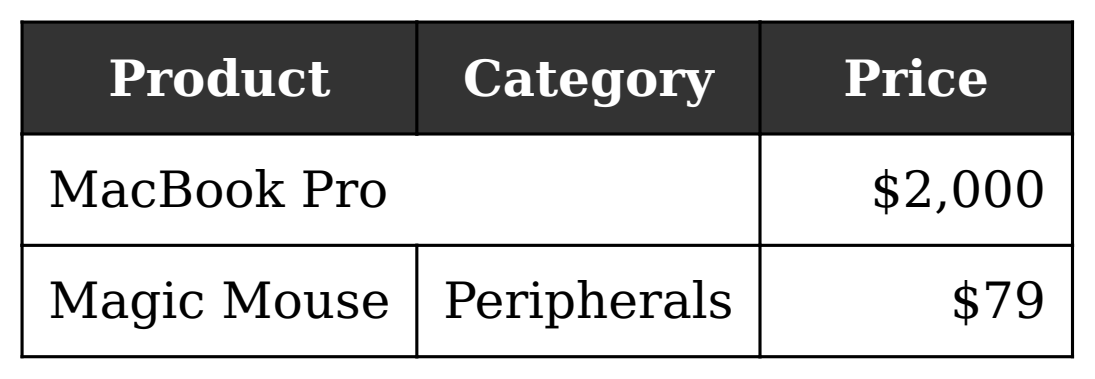
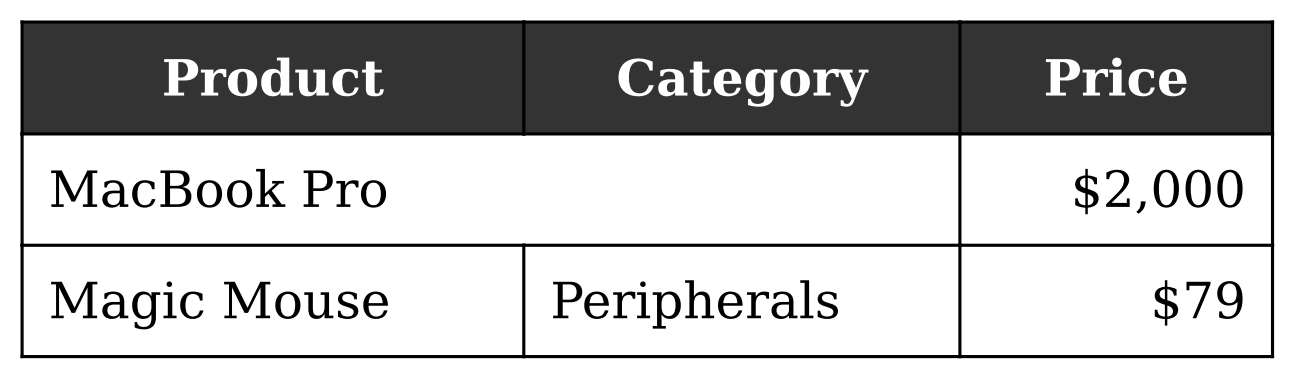
docs: update READMEs with latest API changes
- Updated cell.span() to cell.set_span()
- Added Row.set_height() example to the Layout & Sizing section

diff --git a/README.zh-TW.md b/README.zh-TW.md
@@ -60,6 +60,7 @@ from table_renderer import Table
 # 1. Initialize a 3x3 table
 table = Table(3, 3)
 table.set_border(width=1, color="black", style="solid")
+table.set_width(400)
 
 # 2. Set header style (Row 0)
 header = table.get_row(0)
@@ -71,7 +72,7 @@ table.cell(0, 1).set_text("Category")
 table.cell(0, 2).set_text("Price")
 
 # 3. Add content and demonstrate merging
-table.cell(1, 0).set_text("MacBook Pro").span(rows=1, cols=2)
+table.cell(1, 0).set_text("MacBook Pro").set_span(rows=1, cols=2)
 table.cell(1, 2).set_text("$2,000")
 
 table.cell(2, 0).set_text("Magic Mouse")
@@ -95,7 +96,7 @@ table.to_image("report.png", dpi=300, padding=20, background_color="white")
 
 ```python
 # Merge first row, first two columns (1 row, 2 columns)
-table.cell(0, 0).span(rows=1, cols=2).set_text("Merged Header")
+table.cell(0, 0).set_span(rows=1, cols=2).set_text("Merged Header")
 ```
 
 ### 2. 字型管理
@@ -125,12 +126,13 @@ table.cell(1, 1).set_image("https://example.com/image.jpg", width=100)
 
 ### 4. 版面與尺寸
 
-混用固定寬度、百分比以及自動調整大小。
+混用固定寬度、高度、百分比以及自動調整大小。
 
 ```python
 table.set_width(800)                  # Total table width
-table.get_column(0).set_width(200)    # Fixed 200px
+table.get_column(0).set_width(200)    # Fixed column width (200px)
 table.get_column(1).set_width("auto") # Distribute remaining space
+table.get_row(0).set_height(100)      # Fixed row height (100px)
 ```
 
 **處理極寬的表格：**

diff --git a/README.md b/README.md
@@ -60,6 +60,7 @@ from table_renderer import Table
 # 1. Initialize a 3x3 table
 table = Table(3, 3)
 table.set_border(width=1, color="black", style="solid")
+table.set_width(400)
 
 # 2. Set header style (Row 0)
 header = table.get_row(0)
@@ -71,7 +72,7 @@ table.cell(0, 1).set_text("Category")
 table.cell(0, 2).set_text("Price")
 
 # 3. Add content and demonstrate merging
-table.cell(1, 0).set_text("MacBook Pro").span(rows=1, cols=2)
+table.cell(1, 0).set_text("MacBook Pro").set_span(rows=1, cols=2)
 table.cell(1, 2).set_text("$2,000")
 
 table.cell(2, 0).set_text("Magic Mouse")
@@ -95,7 +96,7 @@ Use the anchor-based design to merge cells by specifying the starting cell and t
 
 ```python
 # Merge first row, first two columns (1 row, 2 columns)
-table.cell(0, 0).span(rows=1, cols=2).set_text("Merged Header")
+table.cell(0, 0).set_span(rows=1, cols=2).set_text("Merged Header")
 ```
 
 ### 2. Font Management
@@ -125,12 +126,13 @@ table.cell(1, 1).set_image("https://example.com/image.jpg", width=100)
 
 ### 4. Layout & Sizing
 
-Mix fixed widths, percentages, and auto-sizing.
+Mix fixed widths, heights, percentages, and auto-sizing.
 
 ```python
 table.set_width(800)                  # Total table width
-table.get_column(0).set_width(200)    # Fixed 200px
+table.get_column(0).set_width(200)    # Fixed column width (200px)
 table.get_column(1).set_width("auto") # Distribute remaining space
+table.get_row(0).set_height(100)      # Fixed row height (100px)
 ```
 
 **Handling Extremely Wide Tables:**
